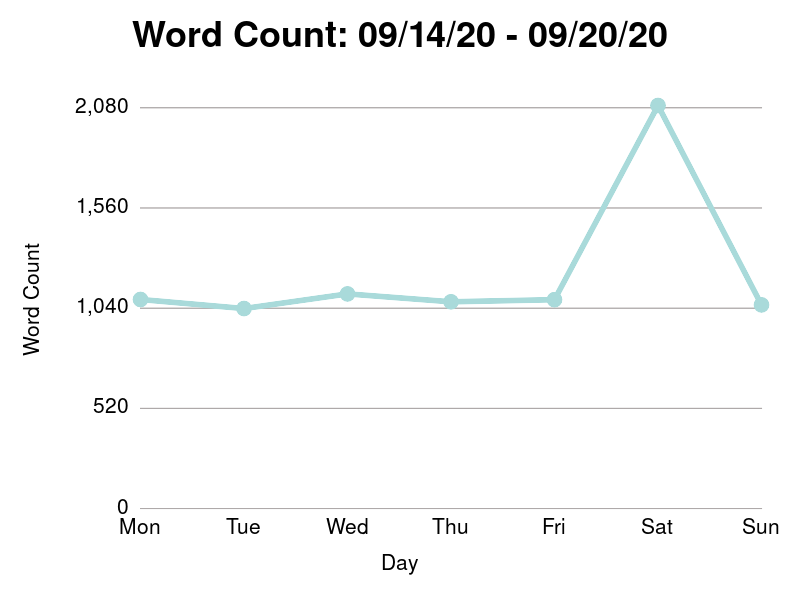
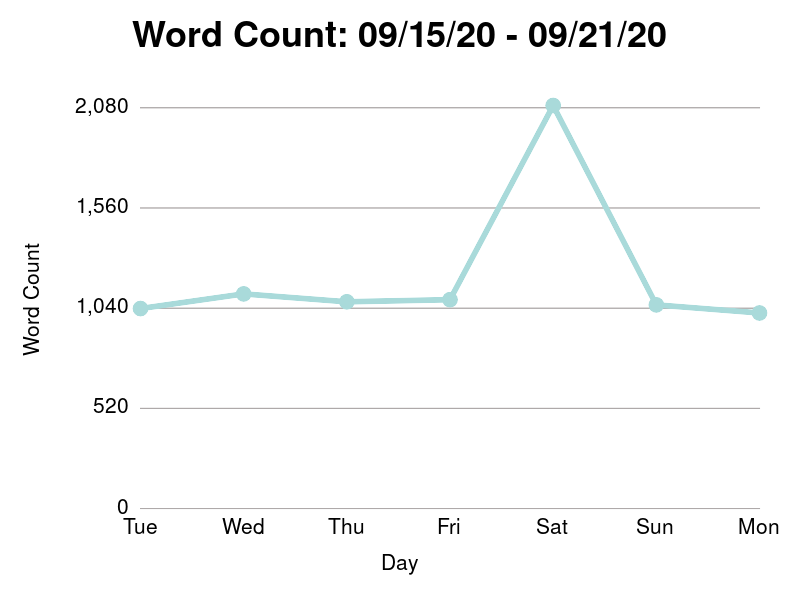
Post

diff --git a/entries/2020-09-21.md b/entries/2020-09-21.md
@@ -1,0 +1,125 @@
+---
+title: nacho cheese, a smushed fly, and back pain
+---
+
+Dear Journal,
+
+Good morning, everyone.  Happy Monday.  I'm having a hard time
+focusing today.  I had all kinds of free time this morning after
+finishing the dishes last night.  But now, looking at the clock with a
+little under an hour before I need to jump online for the work day,
+I'm wondering where it all went.  Hopefully, this morning doesn't set
+the tone for the rest of the day.  I suppose the best course of action
+is to just keep drinking coffee and try to write through the
+distractions.  Maybe my focused, productive self will be waiting for
+me at the bottom of my _third_ cup of coffee.
+
+My wandering attention aside, it's a great day today.  The air outside
+is cool, and the house is dark and cozy.  Both dogs are asleep in bed,
+happily filling my warm spot in the sheets while I carry on with my
+morning routine.
+
+_Sip_.  How about those Bears?  We had a different kind of game this
+time, didn't we?  When we took an early lead, part of me knew the rest
+of the game would be slowly and painfully giving up points until it
+came down to a nail biting final two minutes.  But a win is a win,
+right?  And technically, we're tied for 1st in our division, and we're
+technically undefeated.
+
+Rodney, Marissa, and I watched the game in the dining room while we
+made lunch.  Marissa whipped up some fast guacamole while I made a
+plate of nachos.
+
+I did something fun in lieu of nacho cheese.  I remember a while ago
+back when our oven was having problems I jokingly prepared "French
+nachos", which was just a bechamel sauce with melted cheese.  Ever
+since that night I've wondered how good of a nacho cheese you could
+make with that method.
+
+For yesterday's version, I started with just a two cups of milk on the
+stove with salt and pepper.  I added a whole head of garlic cut in
+half through the center.
+
+"What do you mean _cut in half_?" asked Marissa while I was retelling
+the experiment.  I demonstrated with a decorative fluffy pumpkin set
+out under our bathroom mirror.
+
+"Just right in half, like this, cutting through the whole head," I
+explained.  "Then you just drop them cut side down in the milk."
+
+"So you didn't even peel it?" she asked.
+
+"Nah you don't need to," I replied.  "You're straining the sauce at
+the end, the garlic is just to flavor the milk.  And plus I think the
+peel adds some flavor."
+
+After bringing the garlic milk to a gentle simmer, I made a quick
+blonde _roux_ in another pan.  After letting the _roux_ cool, I
+strained and stirred in the milk, and just before adding it to the
+nachos, I melted in a handful of shredded Wisconsin cheddar.
+
+It's neat how you can find traces of French cooking in other styles of
+food, isn't it?  Building on mother sauces.  Preparing meat.  The
+ratio of vinegar to oil in a dressing.  Keeping a stocked fridge with
+simple, reusable ingredients.  French cooking is just so relentlessly
+practical.
+
+We watched the rest of the first half of the game at the table while
+picking at nachos and guac.  We've grown to really love game days.
+And even though Rodney loses interest in watching the game itself, he
+seems to still appreciate the excitement, as well as the privilege of
+running around the house yelling "touchdown" whenever he feels like.
+
+"TOUCHDOWN!" yelled Rodney, running into the kitchen.  "WE SCORED!"
+
+I leaned into the dining room, peering at the score in the corner of
+the screen.  "False alarm.  Just a _Rodney_ touchdown."
+
+After the game, the nachos and daytime beer caught up with me, and I
+was feeling a strong nap coming on.  Regrettably, instead of heading
+upstairs for some quality ergonomic sleep in a real bed, I settled for
+our couch.
+
+Our couch, despite being really comfy, is about two inches shy of
+letting me stretch out all the way.  As another complication, Ziggy
+also jumped up onto the couch to join me.  I sailed off to sleep for
+two hours, waking up to a terrible kink in my back.
+
+I collected Rodney from his room to end his quiet time.  "Dada, look
+what I found," he said, ushering me over to his plastic snack bowl on
+the ground.  "It's a buggy."
+
+Rodney flipped the bowl over, showing me a small housefly smushed in
+half.  "And dada," he continued.  "Look what he made on the window."
+
+It wasn't until this morning that I took a moment to appreciate how
+funny that was.  I imagine that the events leading up to Rodney, alone
+in his room smashing a housefly against his window, could have been
+something like a art-house film.  A tense, single perspective drama of
+a four year old boy subduing a housefly.  How did he catch it?  What
+was his weapon of choice?  Was the whole thing over in a manner of
+minutes, or was this an hour?  Sadly we'll never know.
+
+I gutted through my back pain and made dinner, quickly throwing
+together some pork tenderloin and mashed potatoes.  As we finished
+dinner, I was starting to feel a spasm coming on.
+
+"He would you..." I began wincing in pain.
+
+"I'll put Rodney to bed," said Marissa.  "I got you."
+
+Thanks to a hot shower, I was able to prevent a full blown spasm.  But
+I did have to spend the rest of the night sporting annoyingly
+impeccable posture.  "I feel like I'm a civil war general posing for a
+photograph," I laughed, taking a careful seat on the edge of our
+ottoman.
+
+We settled in for the night to finish our movie pick, _The Way_.  It's
+a movie where Martin Sheen walks the famous _Camino_ pilgrimage from
+France to Spain.  It's a decent movie, but a little slow moving.
+
+"Are you ready to finish _The Way... to Bed_?" I asked.
+
+"You mean _The Way... to Boredom_?"  replied Marissa.
+
+Thanks for stopping by today.  I hope you have a wonderful day today.
